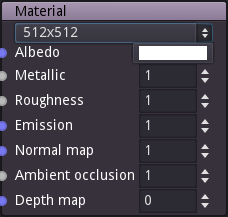
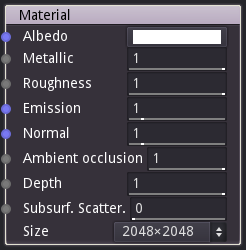
Updated documentation

diff --git a/addons/material_maker/doc/conf.py b/addons/material_maker/doc/conf.py
@@ -24,7 +24,7 @@ copyright = '2018, Rodz Labs'
 author = 'Rodz Labs'
 
 # The short X.Y version
-version = ''
+version = '0.7'
 # The full version, including alpha/beta/rc tags
 release = ''
 
@@ -87,7 +87,7 @@ html_theme = "sphinx_rtd_theme"
 # Add any paths that contain custom static files (such as style sheets) here,
 # relative to this directory. They are copied after the builtin static files,
 # so a file named "default.css" will overwrite the builtin "default.css".
-html_static_path = ['_static']
+html_static_path = []
 
 # Custom sidebar templates, must be a dictionary that maps document names
 # to template names.
@@ -103,7 +103,7 @@ html_static_path = ['_static']
 # -- Options for HTMLHelp output ---------------------------------------------
 
 # Output file base name for HTML help builder.
-htmlhelp_basename = 'MaterialMakerdoc'
+htmlhelp_basename = 'MaterialMakerDoc'
 
 
 # -- Options for LaTeX output ------------------------------------------------

diff --git a/addons/material_maker/doc/node_miscellaneous_material.rst b/addons/material_maker/doc/node_miscellaneous_material.rst
@@ -1,7 +1,7 @@
 Material node
 ~~~~~~~~~~~~~
 
-The Material node defines a material using its inputs.
+The **Material** node defines a material using its inputs.
 
 There is one and only one Material node for each Material Maker project,
 it is created for each new project and cannot be deleted or duplicated.
@@ -13,27 +13,27 @@ files whose names are generated using the project name and the name of the
 corresponding property in the material. The ambient occlusion, roughness
 and metallic textures are combined into a single file whose suffix is "orm".
 
-When using Material Maker as a Godot addon, the metallic, roughness and
-ambient occlusion are automatically combined into a single texture, and
-a SpatialMaterial is generated automatically.
+When using Material Maker as a Godot addon, a SpatialMaterial is generated
+automatically.
 
 .. image:: images/node_material.png
+	:align: center
 
 Inputs
 ++++++
 
-The Material node has an input for each supported property (albedo, metallic,
-roughness, emissive, normal, ambient occlusion and depth maps) of the material.
+The **Material** node has an input for each supported property (albedo, metallic,
+roughness, emissive, normal, ambient occlusion, depth maps and subsurface scattering) of the material.
 
 Outputs
 +++++++
 
-The Material node does not have any output.
+The **Material** node does not have any output.
 
 Parameters
 ++++++++++
 
-The Material node provides the following parameters:
+The **Material** node provides the following parameters:
 
 * The size of the texture files to be generated.
 
@@ -50,3 +50,5 @@ The Material node provides the following parameters:
 * The value of the ambient occlusion property of the material. The texture used for the ambient occlusion input is multiplied by this value.
 
 * The value of the depth property of the material. The input depth map is multiplied by this value.
+
+* The strength of the subsurface scattering effect.

diff --git a/addons/material_maker/doc/node_miscellaneous_remote.rst b/addons/material_maker/doc/node_miscellaneous_remote.rst
@@ -1,10 +1,11 @@
 Remote node
 ~~~~~~~~~~~
 
-The Remote node has no direct effect on the material and can be used to control
-key parameters of the material to configure it easily.
+The **Remote** node has no direct effect on the material but can be used to
+control key parameters of the material to configure it easily.
 
 .. image:: images/node_remote.png
+	:align: center
 
 When started, the Remote node only shows 2 buttons.
 
@@ -44,7 +45,7 @@ When hovering on the Linked control, Material Maker will show the parameters
 it controls.
 
 To create a configuration, set all associated parameters to the desired values,
-and select the "<add configuration>" entry in the drop-down list. Then enter a
+and select the **<add configuration>** entry in the drop-down list. Then enter a
 name for this configuration, and it will be added to the list.
 
 The drop-down list can be used to select a configuration, create new ones and

diff --git a/addons/material_maker/doc/node_miscellaneous_buffer.rst b/addons/material_maker/doc/node_miscellaneous_buffer.rst
@@ -1,0 +1,36 @@
+Buffer node
+~~~~~~~~~~~
+
+The **Buffer** node samples its input into a texture of a given resolution and
+outputs the result.
+
+Buffers can be used either as inputs of convolution nodes (to limit the combined
+shader's complexity), or to create a cheap blur/pixelization effect (by using the
+LOD output). Note that convolution transforms that are provided in the nodes library
+already include buffers where necessary.
+
+.. image:: images/node_buffer.png
+	:align: center
+
+Inputs
+++++++
+
+The **Buffer** node has an input that will be saved when exporting the project.
+
+Outputs
++++++++
+
+The **Buffer** node has 2 outputs:
+
+* the first output provides the image
+
+* the second output generates a given mipmap of the image
+
+Parameters
+++++++++++
+
+The **Buffer** node has two parameters:
+
+* the *texture resolution*
+
+* the *mipmap level* of its second output

diff --git a/addons/material_maker/doc/node_miscellaneous_switch.rst b/addons/material_maker/doc/node_miscellaneous_switch.rst
@@ -1,0 +1,34 @@
+Switch node
+~~~~~~~~~~~
+
+The **Switch** node can be used to select sources for 2 to 5 output textures
+from a choice of 2 to five inputs sets. It is useful to create variations
+of a material and easily switch between them.
+
+.. image:: images/node_switch.png
+	:align: center
+
+Inputs
+++++++
+
+The **Switch** node has from 2 to 25 color inputs A1, B1, .. D5, E5.
+
+Outputs
++++++++
+
+The **Switch** node has 2 to 5 outputs named A, B, C, D and E.
+
+Parameters
+++++++++++
+
+The **Switch** node has a 3 parameters:
+
+* the *number of outputs*
+
+* the *number of choices*
+
+* the *current choice*. For example, if the current chopice is 2, A will output
+  the source image for A2, B will transmit B2...
+
+When the node is not editable (use **Control-W** to switch from non editable to editable),
+only the current choice can be modified.

diff --git a/addons/material_maker/doc/node_transform_kaleidoscope.rst b/addons/material_maker/doc/node_transform_kaleidoscope.rst
@@ -1,0 +1,32 @@
+Kaleidoscope node
+~~~~~~~~~~~~~~~~~
+
+The **Kaleidoscope** node applies a kaleidoscope effect, i.e. copies an angle (by default the
+upper one) all around the image to its input.
+
+.. image:: images/node_kaleidoscope.png
+
+Inputs
+++++++
+
+The **Kaleidoscope** node accepts a single RGBA input.
+
+Outputs
++++++++
+
+The **Kaleidoscope** node outputs the result as RGBA.
+
+Parameters
+++++++++++
+
+The **Kaleidoscope** node has two parameters:
+
+* *strength* to scale the warp effect.
+
+* *epsilon* is used to evaluate the second input's derivative
+
+Example images
+++++++++++++++
+
+.. image:: images/node_kaleidoscope_samples.png
+	:align: center

diff --git a/addons/material_maker/doc/node_transform_mirror.rst b/addons/material_maker/doc/node_transform_mirror.rst
@@ -1,0 +1,31 @@
+Mirror node
+~~~~~~~~~~~
+
+The **Mirror** node applies a mirror filter on its input.
+
+.. image:: images/node_mirror.png
+
+Inputs
+++++++
+
+The **Mirror** node accepts a single RGBA input.
+
+Outputs
++++++++
+
+The **Mirror** node outputs the mirrored image as RGBA.
+
+Parameters
+++++++++++
+
+The **Mirror** node has two parameters:
+
+* the *direction* of the effect (horizontal or vertical).
+
+* the *offset* by which the input is moved away from the mirror.
+
+Example images
+++++++++++++++
+
+.. image:: images/node_mirror_samples.png
+	:align: center

diff --git a/addons/material_maker/doc/node_miscellaneous_export.rst b/addons/material_maker/doc/node_miscellaneous_export.rst
@@ -1,0 +1,24 @@
+Export node
+~~~~~~~~~~~
+
+The **Export** node defines a a texture that will be saved together with the
+material textures when exporting the project.
+
+.. image:: images/node_export.png
+	:align: center
+
+Inputs
+++++++
+
+The **Export** node has an input that will be saved when exporting the project.
+
+Outputs
++++++++
+
+The **Export** node does not have any output.
+
+Parameters
+++++++++++
+
+The **Export** node has a single parameter that defines the suffix of the PNG file
+that will be created.

diff --git a/addons/material_maker/doc/node_miscellaneous_debug.rst b/addons/material_maker/doc/node_miscellaneous_debug.rst
@@ -1,0 +1,23 @@
+Debug node
+~~~~~~~~~~~
+
+The **Debug** node can be used to show the shader used to generate its input.
+
+.. image:: images/node_debug.png
+	:align: center
+
+The **Show shader** button will open a pane that shows the whole shader. That code
+can be copied and directly used in Shadertoy.
+
+.. image:: images/node_debug_pane.png
+	:align: center
+
+Inputs
+++++++
+
+The **Debug** node has an input whose shader can be shown.
+
+Outputs
++++++++
+
+The **Debug** node does not have any output.

diff --git a/addons/material_maker/doc/subgraph_nodes.rst b/addons/material_maker/doc/subgraph_nodes.rst
@@ -9,6 +9,9 @@ To create a subgraph, first select the nodes that must be grouped and use the
 This will replace all selected nodes with a single subgraph node, without
 modifying the overall material description.
 
+When the subgraph is created, it is shown in the graph editor, and can be
+renamed using the top right text field.
+
 The subgraph node is not editable by default, but using the **Control+W**
 shortcut will make it possible to edit its contents using the pencil button.
 

diff --git a/addons/material_maker/doc/user_interface.rst b/addons/material_maker/doc/user_interface.rst
@@ -129,7 +129,7 @@ The filter field above the library tree can be used to quickly find a specific n
 The tree will be updated whenever the filter string is modified. It is possible to
 give focus to the search field using the **Control+F** keyboard shortcut.
 
-.. image:: images/library_filter.png
+.. image:: images/library_filter.gif
   :align: center
 
 Preview pane

diff --git a/addons/material_maker/doc/nodes_miscellaneous.rst b/addons/material_maker/doc/nodes_miscellaneous.rst
@@ -4,7 +4,11 @@ Miscellaneous nodes
 .. toctree::
 	:maxdepth: 1
 
+	node_miscellaneous_material
 	node_miscellaneous_buffer
-	node_miscellaneous_debug
-	node_miscellaneous_remote
+	node_miscellaneous_custom_shader
 	node_miscellaneous_switch
+	node_miscellaneous_remote
+	node_miscellaneous_comment
+	node_miscellaneous_export
+	node_miscellaneous_debug
